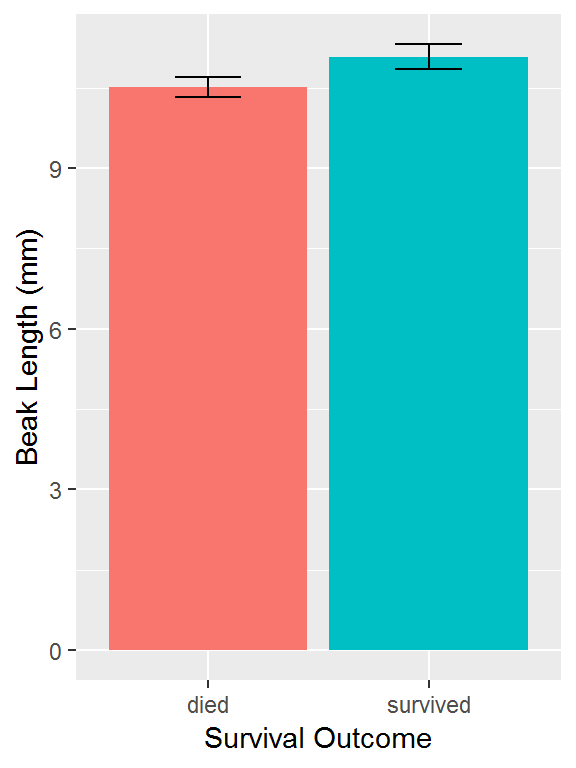
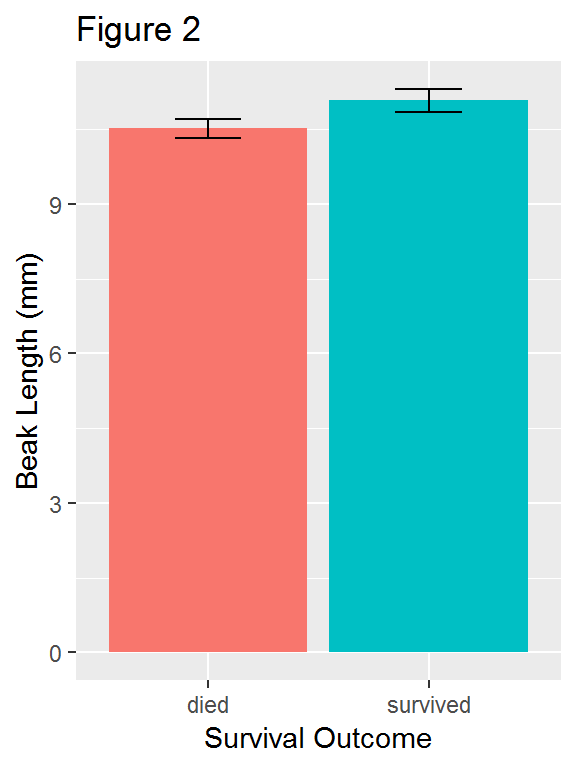
Add figure legends

diff --git a/lab1_3_finch.html b/lab1_3_finch.html
@@ -495,10 +495,16 @@ To look at an object you have just created, print it to the console window by <s
 <a class="sourceLine" id="cb10-8" data-line-number="8"><span class="st">  </span><span class="kw">facet_wrap</span>(<span class="op">~</span><span class="st"> </span>outcome, <span class="dt">ncol =</span> <span class="dv">1</span>) <span class="op">+</span><span class="st">   </span><span class="co"># outcome is the grouping variable</span></a>
 <a class="sourceLine" id="cb10-9" data-line-number="9"><span class="st">  </span><span class="kw">guides</span>(<span class="dt">fill =</span> <span class="ot">FALSE</span>) <span class="op">+</span><span class="st">              </span><span class="co"># don&#39;t show a legend for fll color</span></a>
 <a class="sourceLine" id="cb10-10" data-line-number="10"><span class="st">  </span><span class="kw">labs</span>(</a>
-<a class="sourceLine" id="cb10-11" data-line-number="11">    <span class="dt">x =</span> <span class="st">&quot;Beak Length (mm)&quot;</span>,           <span class="co"># x-axis label</span></a>
-<a class="sourceLine" id="cb10-12" data-line-number="12">    <span class="dt">y =</span> <span class="st">&quot;Number of Birds&quot;</span>             <span class="co"># y-axis label</span></a>
-<a class="sourceLine" id="cb10-13" data-line-number="13">  )</a></code></pre></div>
+<a class="sourceLine" id="cb10-11" data-line-number="11">    <span class="dt">title =</span> <span class="st">&quot;Figure 1&quot;</span>,               <span class="co"># title</span></a>
+<a class="sourceLine" id="cb10-12" data-line-number="12">    <span class="dt">x =</span> <span class="st">&quot;Beak Length (mm)&quot;</span>,           <span class="co"># x-axis label</span></a>
+<a class="sourceLine" id="cb10-13" data-line-number="13">    <span class="dt">y =</span> <span class="st">&quot;Number of Birds&quot;</span>             <span class="co"># y-axis label</span></a>
+<a class="sourceLine" id="cb10-14" data-line-number="14">  )</a></code></pre></div>
 <p><img src="lab1_3_finch_files/figure-html/grouped-histogram-labels-1.png" width="576" style="display: block; margin: auto;" /></p>
+<p>When sharing your figure with others, for example in a report or peer-reviewed journal article, you should always include a figure legend.</p>
+<p>A good figure legend for this histogram would be:</p>
+<blockquote class="text-info">
+Figure 1. <strong>Distribution of beak lengths among medium ground finches (<i>Geospiza fortis</i>) grouped by survival outcome during the 1977 drought on Daphne Major, Galapagos archipelago.</strong> Each sample consisted of 50 individuals. Birds were banded and measured during 1975-1977 and resighted in 1978.
+</blockquote>
 <div id="export-your-figure" class="section level4">
 <h4>Export your figure</h4>
 <p>To put your figure in a Microsoft Word document (your assignment in part 4), you must first save it as an image file on your computer. You can do this with <code>ggsave()</code>, which saves the most recent ggplot displayed.</p>
@@ -568,10 +574,15 @@ To look at an object you have just created, print it to the console window by <s
 <a class="sourceLine" id="cb16-15" data-line-number="15">  ) <span class="op">+</span></a>
 <a class="sourceLine" id="cb16-16" data-line-number="16"><span class="st">  </span><span class="kw">guides</span>(<span class="dt">fill =</span> <span class="ot">FALSE</span>) <span class="op">+</span><span class="st">                </span><span class="co"># don&#39;t show a legend for fll color</span></a>
 <a class="sourceLine" id="cb16-17" data-line-number="17"><span class="st">  </span><span class="kw">labs</span>(</a>
-<a class="sourceLine" id="cb16-18" data-line-number="18">    <span class="dt">x =</span> <span class="st">&quot;Survival Outcome&quot;</span>,             <span class="co"># x-axis label</span></a>
-<a class="sourceLine" id="cb16-19" data-line-number="19">    <span class="dt">y =</span> <span class="st">&quot;Beak Length (mm)&quot;</span>              <span class="co"># y-axis label</span></a>
-<a class="sourceLine" id="cb16-20" data-line-number="20">  )</a></code></pre></div>
+<a class="sourceLine" id="cb16-18" data-line-number="18">    <span class="dt">title =</span> <span class="st">&quot;Figure 2&quot;</span>,                 <span class="co"># title</span></a>
+<a class="sourceLine" id="cb16-19" data-line-number="19">    <span class="dt">x =</span> <span class="st">&quot;Survival Outcome&quot;</span>,             <span class="co"># x-axis label</span></a>
+<a class="sourceLine" id="cb16-20" data-line-number="20">    <span class="dt">y =</span> <span class="st">&quot;Beak Length (mm)&quot;</span>              <span class="co"># y-axis label</span></a>
+<a class="sourceLine" id="cb16-21" data-line-number="21">  )</a></code></pre></div>
 <p><img src="lab1_3_finch_files/figure-html/bar-chart-1.png" width="288" style="display: block; margin: auto;" /></p>
+<p>A good figure legend for this figure would be:</p>
+<blockquote class="text-info">
+Figure 2. <strong>Mean beak length varied between medium ground finches (<i>Geospiza fortis</i>) that survived or died during the 1977 drought on Daphne Major, Galapagos archipelago.</strong> Each sample consisted of 50 individuals. Birds were banded and measured during 1975-1977 and resighted in 1978. Error bars represent 95% confidence intervals.
+</blockquote>
 <div id="export-your-figure-1" class="section level4">
 <h4>Export your figure</h4>
 <div class="sourceCode" id="cb17"><pre class="sourceCode r"><code class="sourceCode r"><a class="sourceLine" id="cb17-1" data-line-number="1"><span class="co"># save the beak length bar chart</span></a>
@@ -638,7 +649,7 @@ To look at an object you have just created, print it to the console window by <s
 <p>As further evidence that the difference between the means is not equal to zero, you can see that the 95% confidence interval does not include zero.</p>
 <p>To report the findings of a t-test, for example in the Results section of a report or scientific article, you would say:</p>
 <blockquote class="text-info">
-Mean beak depths were 11.1 mm in survivors and 10.5 mm in non-survivors (Figure 1). This difference was stastistically significant according to a Welch’s two-sample t-test assuming unequal variances (t=3.6335, df=94.807, p=0.0004539).
+Birds that survived the 1977 drought generally had longer beaks than those that died (Fig. 1). Mean beak lengths were 11.1 mm in survivors and 10.5 mm in non-survivors (Fig. 2). This difference was stastistically significant according to a Welch’s two-sample t-test assuming unequal variances (<em>t</em>=3.6335, <em>df</em>=94.807, <em>p</em>=0.0004539).
 </blockquote>
 <p>When you’re ready, you can move on to Part 4.</p>
 <ul class="pager">
